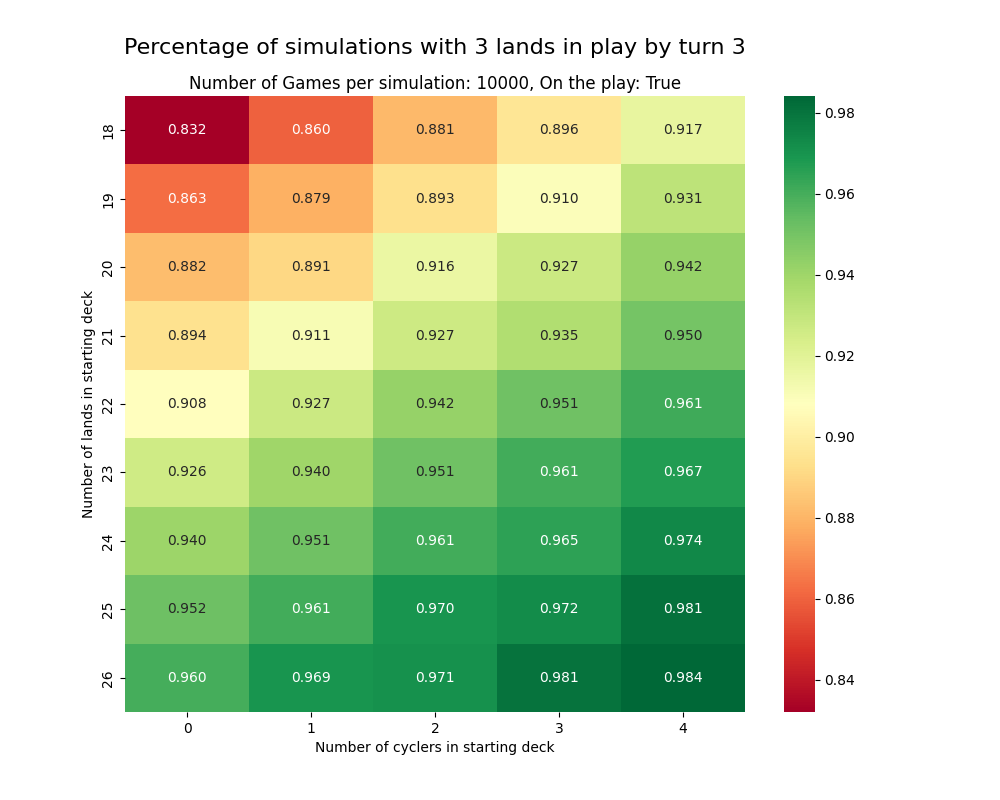
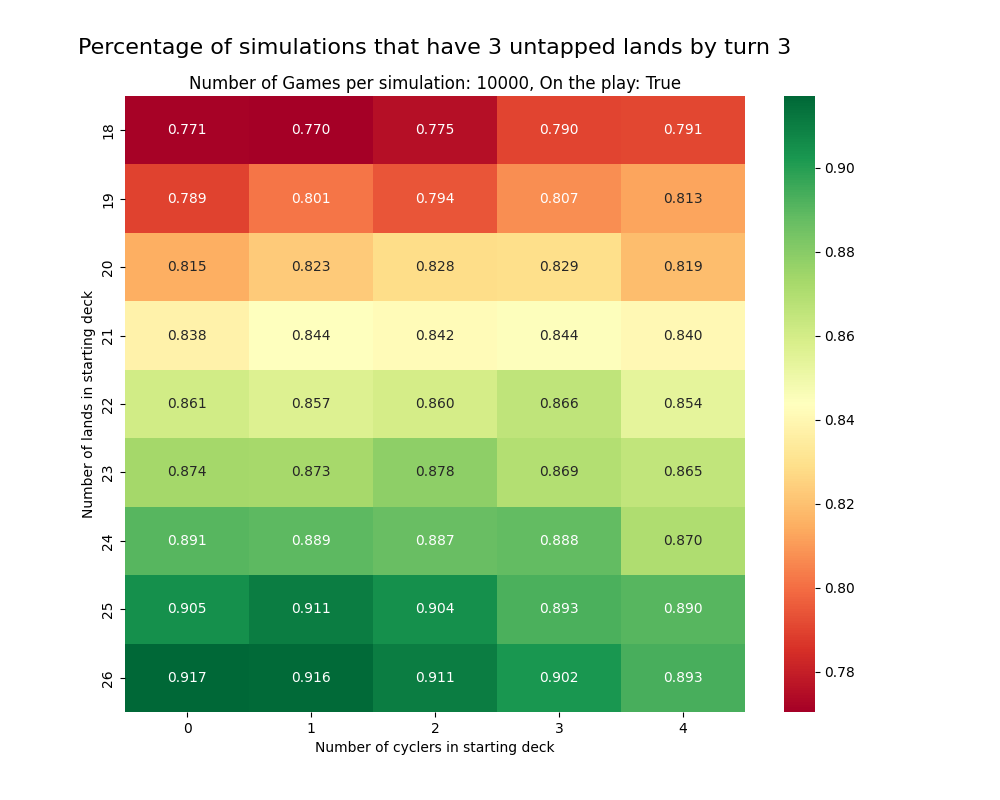
update to consider "tapland" aspect of cycling cards

diff --git a/src/temur_rhinos.py b/src/temur_rhinos.py
@@ -13,7 +13,7 @@ N_CYCLERS_TO_TRY = [0, 1, 2, 3, 4]
 N_LANDS_TO_TRY = [26, 25, 24, 23, 22, 21, 20, 19, 18]
 N_GAMES = 10000
 N_TURNS = 3
-ON_THE_PLAY = True
+ON_THE_PLAY = False
 
 
 class Card:
@@ -199,6 +199,7 @@ class Simulation:
     ) -> dict:
         """Take a turn of mtg."""
         land_for_turn = False
+        cycled_this_turn = False
         # draw a card for turn (except if on the play)
         if not (self.on_the_play and turn_number == 1):
             drawn_card = self.deck.draw()
@@ -214,6 +215,7 @@ class Simulation:
             # "tap" the land and discard the cycler to search your deck for a land and put it into hand
             self.discard.add(self.hand.remove("Cycler"))
             land_card = self.deck.search_for("Land")
+            cycled_this_turn = True
             if land_card is not None:
                 self.hand.add(land_card)
 
@@ -242,6 +244,8 @@ class Simulation:
             "n_lands_in_hand": self.hand.count("Land"),
             "n_lands_in_starting_deck": self.n_lands,
             "n_cyclers_in_starting_deck": self.n_cyclers,
+            # can only play cascade this turn if we have 3 lands in play and we didn't cycle this turn.
+            "can_play_cascade": self.play.count("Land") >= 3 and not cycled_this_turn,
         }
 
     @staticmethod
@@ -258,7 +262,7 @@ class Simulation:
             "n_lands_in_hand",
             "n_lands_in_starting_deck",
             "n_cyclers_in_starting_deck",
-            "on_the_play",
+            "can_play_cascade",
         ]
         with open("game_log.csv", "w", newline="") as f:
             writer = csv.DictWriter(f, fieldnames=headers)

diff --git a/src/graph.py b/src/graph.py
@@ -14,7 +14,7 @@ turn_n_df = df[df["turn"] == 3]
 # Calculate the percentage of simulations with each combination of number of lands and cyclers that had 3 lands in play
 percentage_df = (
     turn_n_df.groupby(["n_lands_in_starting_deck", "n_cyclers_in_starting_deck"])
-    .apply(lambda group: (group["n_lands_in_play"] == 3).mean())
+    .apply(lambda group: group["can_play_cascade"].mean())
     .reset_index()
 )
 percentage_df.columns = ["n_lands_in_starting_deck", "n_cyclers_in_starting_deck", "percentage"]
@@ -36,7 +36,7 @@ sns.heatmap(
     annot=annot_array,  # pass in formatted annotation array here
     fmt="",  # prevent seaborn from applying additional formatting
 )
-plt.title("Percentage of simulations with 3 lands in play by turn 3", fontsize=16, pad=30)
+plt.title("Percentage of simulations that have 3 untapped lands by turn 3", fontsize=16, pad=30)
 plt.text(
     0.5,
     1.02,
@@ -50,6 +50,6 @@ plt.xlabel("Number of cyclers in starting deck")
 plt.ylabel("Number of lands in starting deck")
 
 # Save the figure to a file
-plt.savefig("assets/heatmap.png")
+plt.savefig("assets/heatmap_on_the_draw.png")
 
 plt.show()
